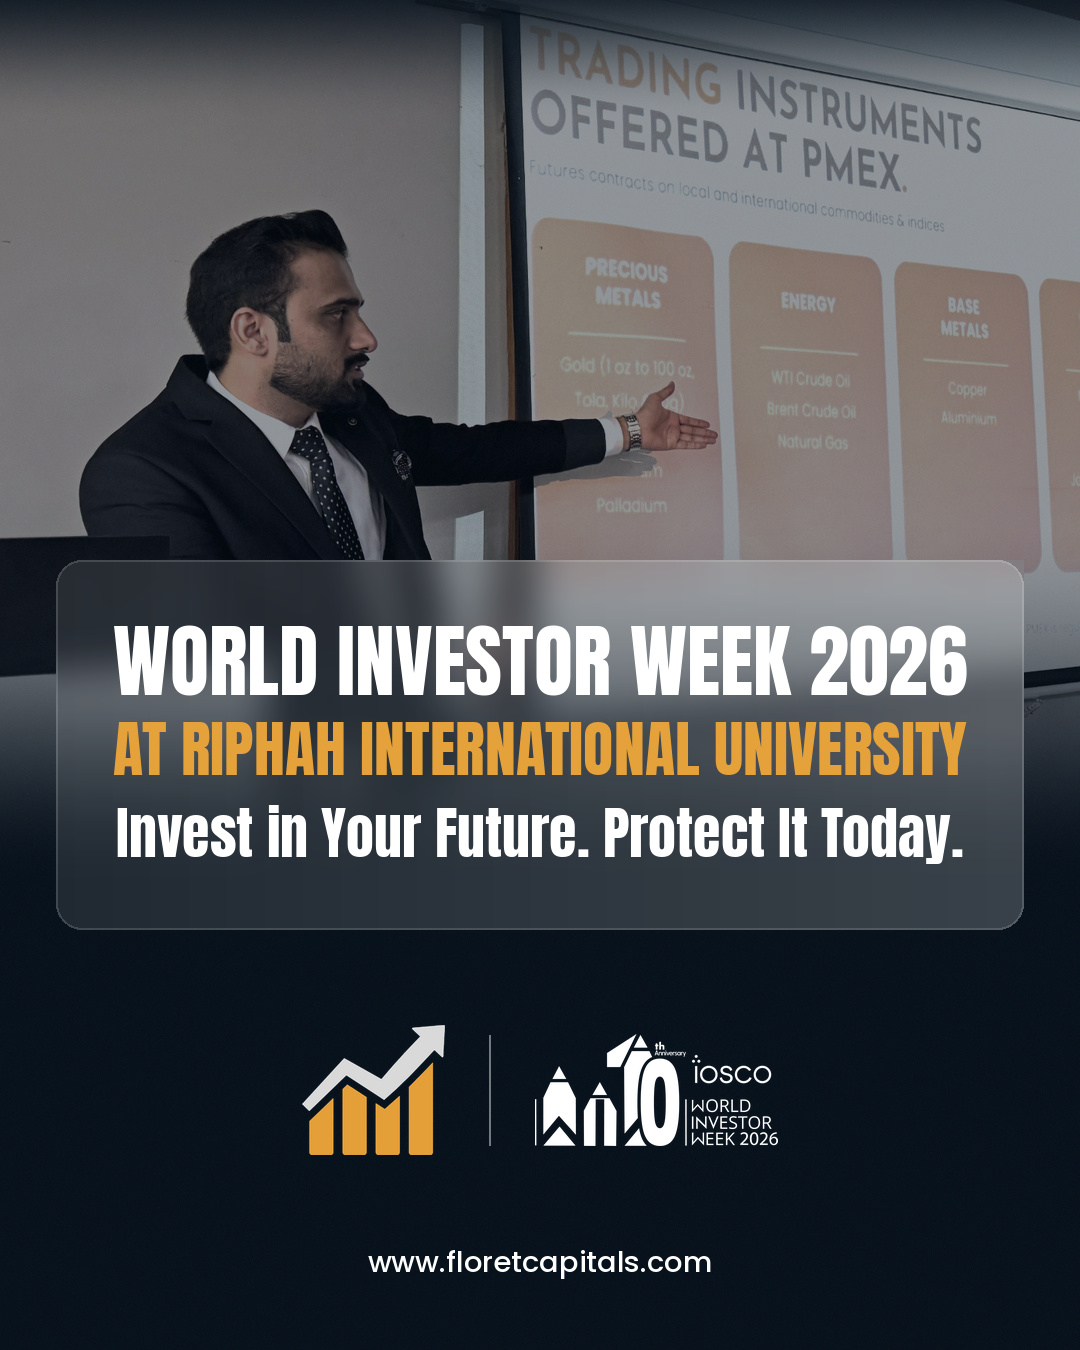
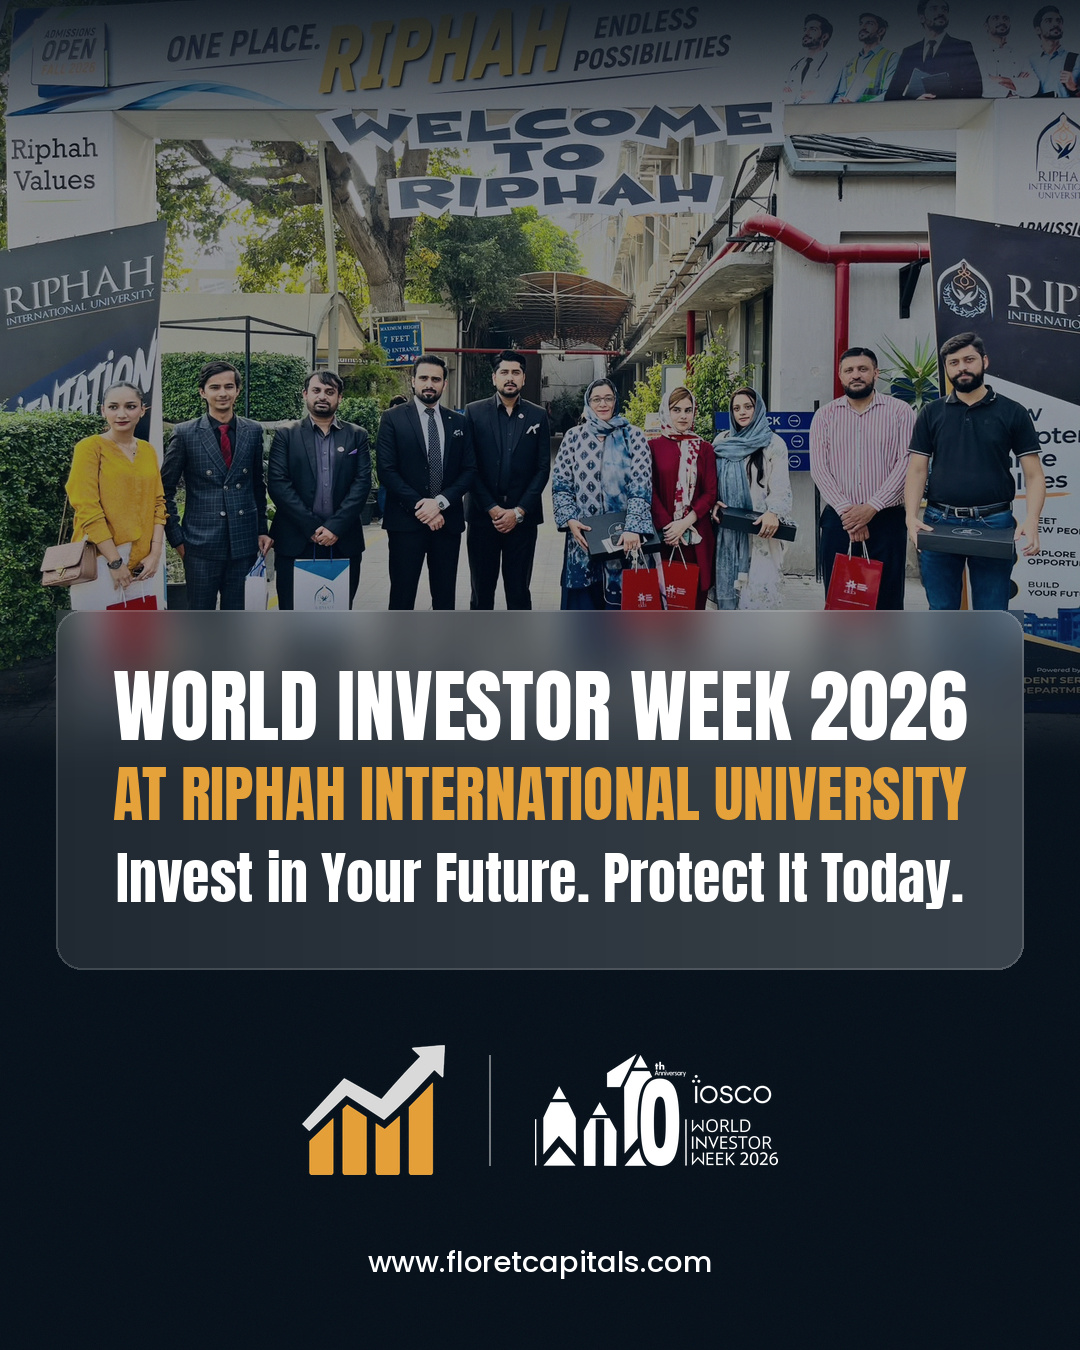
Riphah carousel: use the group photo at the gate as the cover background
Claude-Session: https://claude.ai/code/session_012KbG1rS37aTXVN9ktUXDpF

diff --git a/pipeline/riphah_photos.py b/pipeline/riphah_photos.py
@@ -3,7 +3,7 @@
 Usage:
     python3 pipeline/riphah_photos.py SRC_DIR [OUT_DIR]
 
-SRC_DIR must hold the five event photos 1.jpg ... 5.jpg. Output (1080x1350):
+SRC_DIR must hold the five event photos 1.jpg ... 5.jpg and the cover photo 8.jpg. Output (1080x1350):
     post_0_cover.jpg   title card
     post_1..5_*.jpg    photos in the Floret post template: navy band with the
                        Floret + WIW 2026 logos, photo fading into navy, website.
@@ -53,6 +53,12 @@ PHOTOS = {
               faces=[(770, 680, 820, 750), (910, 660, 970, 740), (1570, 660, 1620, 740)],
               wb=(1.0, 1.0, 1.02)),
 }
+
+# Cover background: the group photo at the Riphah gate, full width (the group is
+# already centred), faces up top, the title panel overlapping from the knees.
+COVER = dict(file="8.jpg", x0=0, w=1280, y0=0, dim=0.70,
+             faces=[(493, 435, 525, 480), (582, 422, 621, 474), (1005, 422, 1037, 474)],
+             wb=(1.0, 1.0, 1.02), panel=(56, 610, 1024, 970), lockup_y=1110)
 
 # Shared look (same for every photo).
 LOOK = dict(highlights=0.5, shadows=0.10, contrast=0.12, clarity=0.10,
@@ -221,26 +227,27 @@ def post(photo, p):
     return img.convert("RGB")
 
 
-def cover(photo):
-    """Title card: the presenter shot dimmed into navy, frosted title panel, logos."""
-    x0, w, y0 = 60, 1440, 180  # source crop: presenter + slide, face high in frame
-    s = W / w
-    big = photo.crop((x0, y0, x0 + w, photo.height))
+def cover(photo, c=COVER):
+    """Title card: event photo dimmed into navy, frosted title panel, logos."""
+    s = W / c["w"]
+    big = photo.crop((c["x0"], c["y0"], c["x0"] + c["w"], photo.height))
     big = big.resize((W, round(big.height * s)), Image.LANCZOS)
     a = np.asarray(big, np.float32)
     L = luma(a)[..., None]
-    a = (L + (a - L) * 0.75) * 0.55 + np.array(NAVY, np.float32) * 0.45  # dim towards navy
+    a = (L + (a - L) * 0.85) * c["dim"] + np.array(NAVY, np.float32) * (1 - c["dim"])
 
     canvas = np.full((H, W, 3), NAVY, np.float32)
     h = min(a.shape[0], H)
     y = np.arange(h, dtype=np.float32)
-    alpha = (smoothstep((y + 40) / 160) * (1 - smoothstep((y - 520) / 360)))[:, None, None]
-    canvas[:h] += (a[:h] - canvas[:h]) * alpha
+    # Calm the top edge, then dissolve into navy behind the title panel.
+    top_fade = smoothstep((y + 60) / 260)
+    bot_fade = 1 - smoothstep((y - (c["panel"][1] - 40)) / (h - c["panel"][1] + 40))
+    canvas[:h] += (a[:h] - canvas[:h]) * (top_fade * bot_fade)[:, None, None]
     canvas += np.random.default_rng(7).normal(0, 1.2, canvas.shape)  # grain, no banding
     img = Image.fromarray(np.clip(canvas + 0.5, 0, 255).astype(np.uint8))
 
     # Frosted panel: blur what's behind it, then a faint white glass tint.
-    px0, py0, px1, py1 = 56, 560, 1024, 930
+    px0, py0, px1, py1 = c["panel"]
     pw, ph = px1 - px0, py1 - py0
     img.paste(img.crop((px0, py0, px1, py1)).filter(ImageFilter.GaussianBlur(18)), (px0, py0))
     mask = Image.new("L", (pw, ph), 0)
@@ -276,7 +283,7 @@ def cover(photo):
         y += hgt + gap
 
     lk = lockup(floret_h=130, wiw_h=112, gap=44, divider_h=110)
-    img.alpha_composite(lk, ((W - lk.width) // 2, 1090 - lk.height // 2))
+    img.alpha_composite(lk, ((W - lk.width) // 2, c["lockup_y"] - lk.height // 2))
     center_text(d, 1250, URL, font("Poppins-Medium.ttf", 29))
     return img.convert("RGB")
 
@@ -292,7 +299,7 @@ def main():
         post(graded[k], p).save(dst, quality=95, subsampling=0, optimize=True)
         print(dst)
     dst = os.path.join(out_dir, "post_0_cover.jpg")
-    cover(graded["3"]).save(dst, quality=95, subsampling=0, optimize=True)
+    cover(graded_photo(os.path.join(src_dir, COVER["file"]), COVER)).save(dst, quality=95, subsampling=0, optimize=True)
     print(dst)
 
 

diff --git a/README.md b/README.md
@@ -49,9 +49,9 @@ To preview single frames, run `python3 pipeline/reel.py still 1.8,12.9,22.8`. Se
 
 Six 1080×1350 slides in [`riphah/`](riphah/), posted in filename order:
 
-- `post_0_cover.jpg`: title card ("World Investor Week 2026 at Riphah International University" plus the WIW 2026 tagline) over the dimmed presenter shot, with the Floret Capitals and WIW 2026 logos.
+- `post_0_cover.jpg`: title card ("World Investor Week 2026 at Riphah International University" plus the WIW 2026 tagline) over the group photo at the Riphah gate (dimmed into navy), with the Floret Capitals and WIW 2026 logos.
 - `post_1` … `post_5`: event photos in the Floret post template. A navy band at the top carries the Floret | WIW 2026 logo lockup, the photo fades into navy with the same top and bottom gradient on every slide, and the website sits at the bottom.
 
-The script is `pipeline/riphah_photos.py SRC_DIR` (SRC_DIR holds `1.jpg` … `5.jpg`). It gives every photo one shared grade and then sets each photo's exposure so the faces meter to the same level. Crops centre the people horizontally. The wide group shot is continued with a blurred mirror of its own edges so its fades match the other slides.
+The script is `pipeline/riphah_photos.py SRC_DIR` (SRC_DIR holds `1.jpg` … `5.jpg` and the cover photo `8.jpg`). It gives every photo one shared grade and then sets each photo's exposure so the faces meter to the same level. Crops centre the people horizontally. The wide group shot is continued with a blurred mirror of its own edges so its fades match the other slides.
 
 Assets in `riphah/assets/`: Floret logo, the official white WIW 2026 logo (from the IOSCO WIW 2026 campaign toolkit at worldinvestorweek.org), and the Poppins and Anton fonts (SIL OFL).
